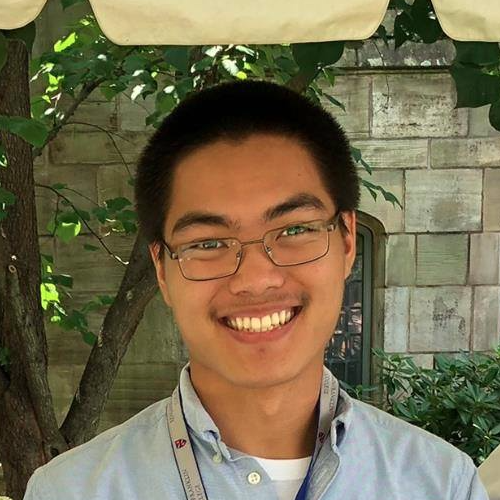
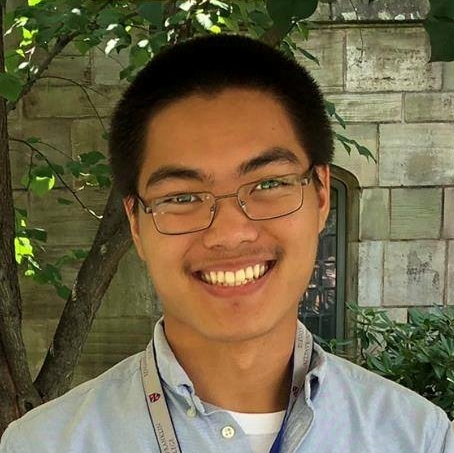
Update margins and pic

diff --git a/components/layout.js b/components/layout.js
@@ -15,7 +15,7 @@ export default function Layout({ children, home }) {
       <header className={styles.header}>
         <div class="flex justify-center">
           <div class="w-60 h-60 flex-1">
-            <img src="/images/profile.png" class="p-1 rounded-full ring-2 ring-gray-300 dark:ring-gray-500"/>
+            <img src="/images/profile.png" class="p-1 rounded-full ring-2 ring-gray-300 dark:ring-gray-500 w-60 h-60"/>
           </div>
           <div class="px-8 py-4 flex-1">
             <h3 class="font-sans text-4xl">{name}</h3>

diff --git a/README.md b/README.md
@@ -3,3 +3,5 @@
 Built with Next.js and Tailwind, no backend. Deployed with Vercel. Check it out [here](https://leck-tang.vercel.app/).
 
 Learn how to build [your own Next.js app](https://nextjs.org/learn/basics/create-nextjs-app): write blogs in Markdown and seamlessly deploy them with intuitive page-based routing.
+
+Run `npm install`, then `npm run dev`.
